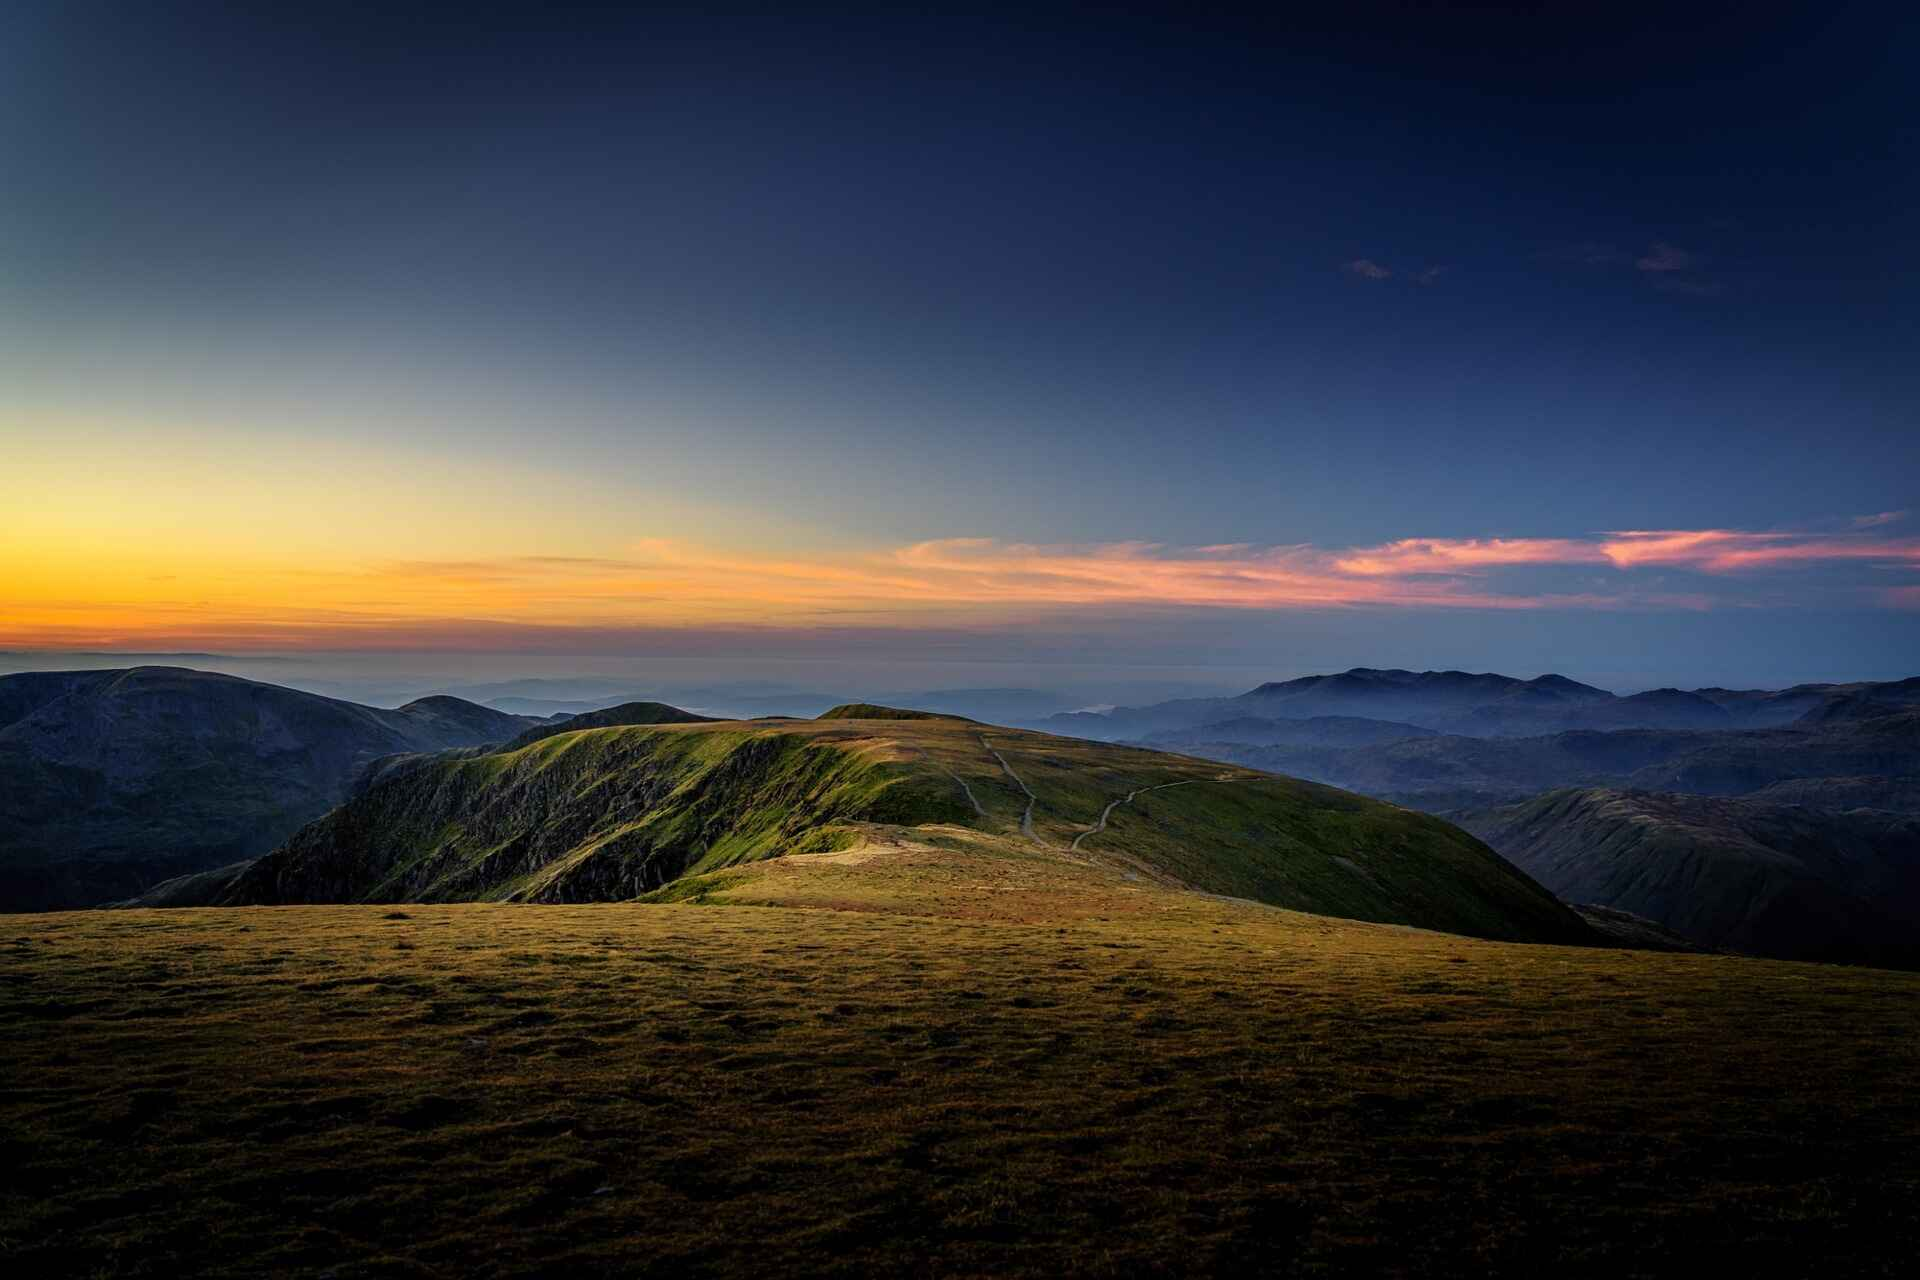
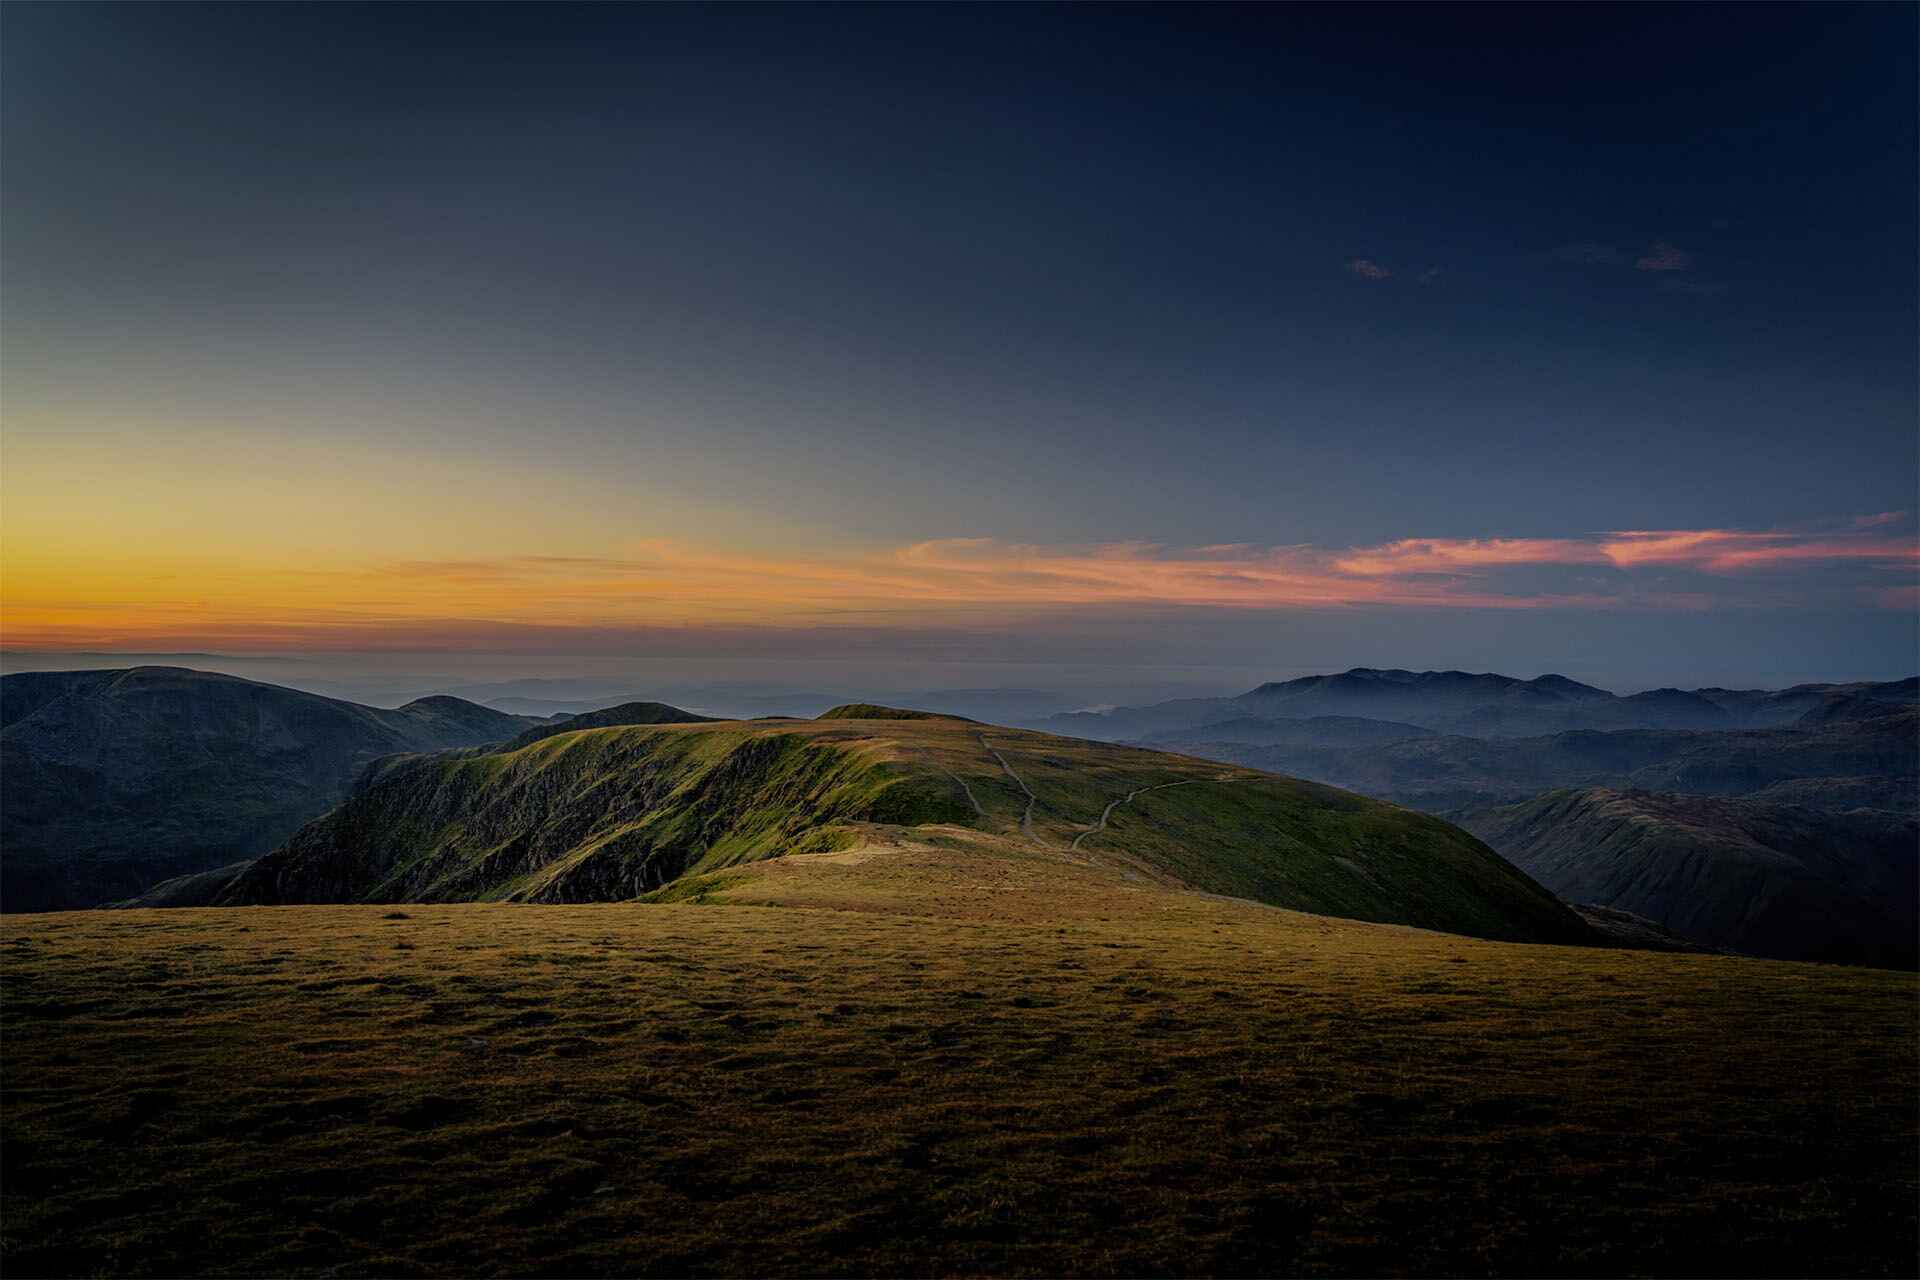
Aug23.8

diff --git a/index.html b/index.html
@@ -948,7 +948,7 @@
 
 
             <p class="favcontainer__content--slider__slide--para">
-              "A moor with a view, on the Derbyshire edges"
+              "A moor with a view, standing on Derbyshire edges"
             </p>
 
           </div>
@@ -961,7 +961,7 @@
 
 
             <p class="favcontainer__content--slider__slide--para">
-              " The old man watching for Swallows And Amazons"
+              "The old man watching for Swallows And Amazons"
             </p>
 
           </div>

diff --git a/style.css b/style.css
@@ -1992,7 +1992,7 @@ section#galleryContainer {
   font-weight: 300;
   font-size: calc(1.5rem + 1.2vw);
   color: #ffffff;
-  padding-bottom: 1vw;
+  /* padding-bottom: 1vw; */
   padding-top: 1vw;
 }
 @media (max-width: 75em) {